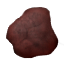
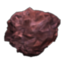
added AlteredARMOR's resource graphics

diff --git a/planet/Objects.c4d/Items.c4d/Resources.c4d/Earth.c4d/Script.c b/planet/Objects.c4d/Items.c4d/Resources.c4d/Earth.c4d/Script.c
@@ -1,20 +1,23 @@
-/*--- Der Stein ---*/
+/*--- Earth ---*/
 
 #strict 2
 
 protected func Initialize()
 {
-	SetGraphics(Format("%d.8",Random(2)));
+	SetGraphics(Format("%d.10", Random(2)));
 }
 
 protected func Hit()
 {
-  Sound("RockHit*");
+  CastPXS("Earth", 225, 18);
+  Sound("EarthHit*");
+  RemoveObject();
   return 1;
 }
 
 func IsAlchemContainer() { return true; }
-func AlchemProcessTime() { return 160; }
+func AlchemProcessTime() { return 120; }
+
 func Definition(def) {
   SetProperty("Collectible", 1, def);
   SetProperty("Name", "$Name$", def);

diff --git a/planet/Objects.c4d/Items.c4d/Resources.c4d/Snow.c4d/Script.c b/planet/Objects.c4d/Items.c4d/Resources.c4d/Snow.c4d/Script.c
@@ -1,4 +1,4 @@
-/*-- Ice --*/
+/*-- Snowball --*/
 
 #strict 2
 
@@ -11,7 +11,6 @@ protected func Initialize()
 protected func Check()
 {
 	if(GetTemperature() > 0) Melt();
-	if(GetTemperature() <= 0 && GetMaterial()==Material("Water")) Freeze();
 }
 
 private func Melt()
@@ -20,11 +19,10 @@ private func Melt()
 	DoCon(-2);
 }
 
-private func Freeze()
+private func Hit()
 {
-	DoCon(2);
-	var i=2;
-	while(i>0) ExtractLiquid() && i=--i;
+	if(GetMaterial(0,3)==Material("Snow")) return 1;
+	CastPXS("Snow", 225,18);
 }
 
 func Definition(def) {

diff --git a/planet/Objects.c4d/Items.c4d/Resources.c4d/Coal.c4d/Script.c b/planet/Objects.c4d/Items.c4d/Resources.c4d/Coal.c4d/Script.c
@@ -1,6 +1,18 @@
+/*-- Coal --*/
+
 #strict 2
+
+protected func Initialize()
+{
+	SetGraphics(Format("%d.8",Random(2)));
+}
+
+protected func Hit()
+{
+	Sound("RockHit");
+}
 
 func Definition(def) {
   SetProperty("Collectible", 1, def);
-  SetProperty("Name", "Coal", def);
+  SetProperty("Name", "$Name$", def);
 }

diff --git a/planet/Objects.c4d/Items.c4d/Resources.c4d/Sulphur.c4d/Script.c b/planet/Objects.c4d/Items.c4d/Resources.c4d/Sulphur.c4d/Script.c
@@ -1,4 +1,16 @@
+/*-- Sulphur --*/
+
 #strict 2
+
+protected func Initialize()
+{
+	SetGraphics(Format("%.8",Random(2)));
+}
+
+protected func Hit()
+{
+	Sound("CrystalHit*");
+}
 
 func Definition(def) {
   SetProperty("Collectible", 1, def);

diff --git a/planet/Objects.c4d/Items.c4d/Resources.c4d/Ore.c4d/Script.c b/planet/Objects.c4d/Items.c4d/Resources.c4d/Ore.c4d/Script.c
@@ -1,4 +1,16 @@
+/*-- Ore --*/
+
 #strict 2
+
+protected func Initialize()
+{
+	SetGraphics(Format("%d.8",Random(2)));
+}
+
+protected func Hit()
+{
+	Sound("RockHit");
+}
 
 func Definition(def) {
   SetProperty("Collectible", 1, def);

diff --git a/planet/Objects.c4d/Items.c4d/Resources.c4d/Gold.c4d/Script.c b/planet/Objects.c4d/Items.c4d/Resources.c4d/Gold.c4d/Script.c
@@ -2,6 +2,11 @@
 
 #strict 2
 
+protected func Initialize()
+{
+	SetGraphics(Format("%d.8",Random(2)));
+}
+
 protected func Hit()
 {
    Sound("RockHit*");
